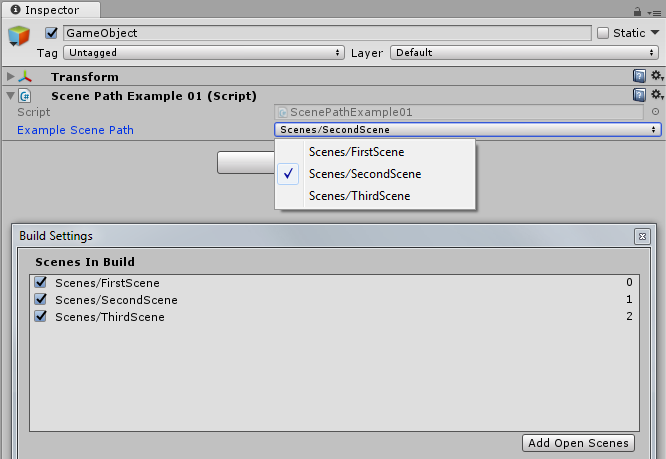
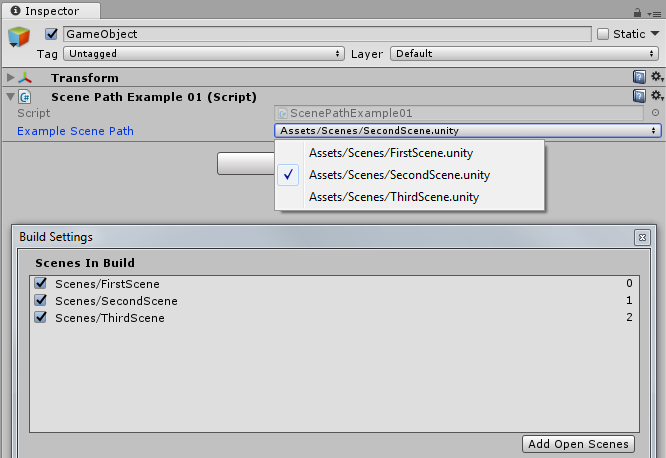
Add detailed description of ScenePath attribute usage in README.md

Changed region(s): [[0.0, 0.0, 1.0, 0.7031], [0.03, 0.917, 0.961, 1.0], [0.9309, 0.6725, 0.961, 0.7031]]

diff --git a/README.md b/README.md
@@ -126,10 +126,20 @@ private string exampleTag;
 ![screencast](Documentation/scene-path-example.png)
 
 ### Attribute usage
-Add attribute to string field to enable selection of scene path value from dropdown list in Unity editor.
+Add attribute to string field to enable selection of scene path value from dropdown list in Unity editor. Path type can be set via `fullProjectPath` argument: if true, scene path will be full project path like "Assets/Scenes/MyScene.unity"; if false, path will be short project path without "Assets/" and ".unity" extension like "Scenes/MyScene". Source to populate dropdown can be set via `fromBuildSettings` argument: if true, only scenes from build settings will be shown in dropdown; if false, all scenes from project will be shown in dropdown. Additionally, `onlyEnabled` argument can be used to show only scenes enabled in build settings if `fromBuildSettings` is set to true.
 ```csharp
+// Full scene path, only enabled scenes from build settings
 [SerializeField, ScenePath]
-private string exampleScenePath;
+private string exampleScenePath01;
+// Short scene path, only enabled scenes from build settings
+[SerializeField, ScenePath(fullProjectPath: false))]
+private string exampleScenePath02;
+// Full scene path, all scenes from project
+[SerializeField, ScenePath(fromBuildSettings: false))]
+private string exampleScenePath03;
+// Short scene path, all scenes from build settings
+[SerializeField, ScenePath(fullProjectPath: false, onlyEnabled: false))]
+private string exampleScenePath04;
 ```
 
 [Examples of attribute usage](../master/Source/Examples/ScenePath)
